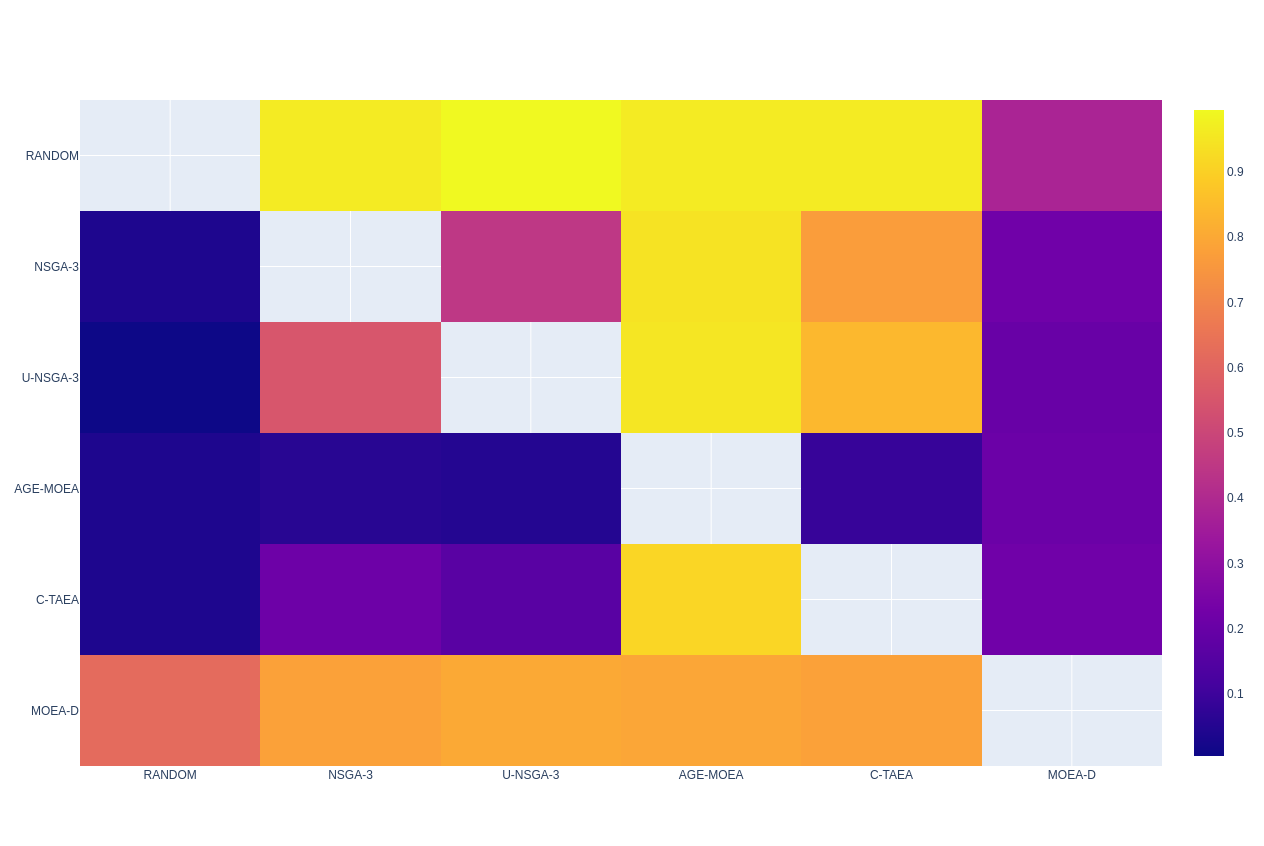
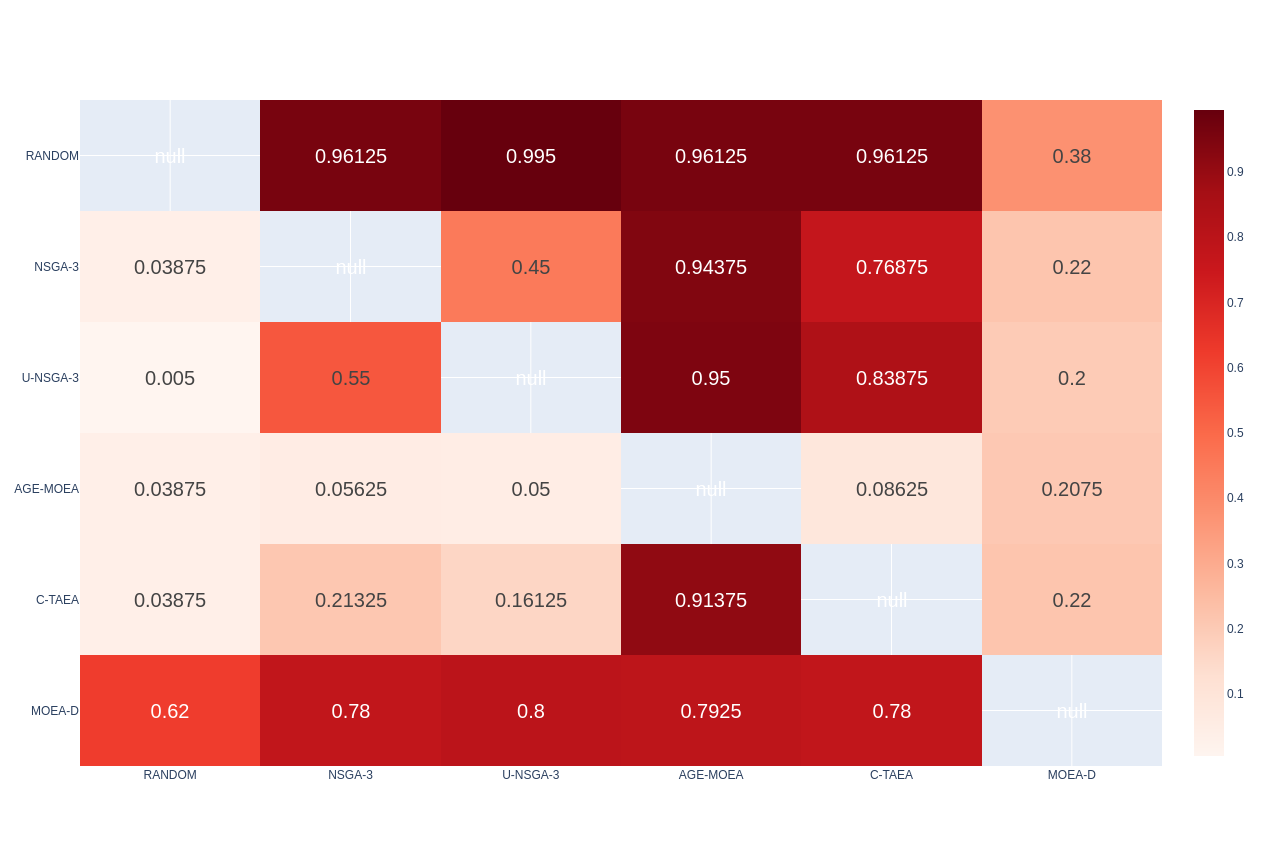
Fixes to the heatmaps

diff --git a/RescueRobotPy/SmallExperiment2/HeatMap.py b/RescueRobotPy/SmallExperiment2/HeatMap.py
@@ -10,7 +10,11 @@ fig1 = go.Figure(data=go.Heatmap(
                    z=pvalue_map,
                    x=['RANDOM', 'NSGA-3', 'U-NSGA-3', 'C-TAEA', 'AGE-MOEA'],
                    y=['MOEA-D', 'AGE-MOEA', 'C-TAEA', 'U-NSGA-3', 'NSGA-3'],
-                   hoverongaps = False))
+                   hoverongaps = False,
+                   colorscale='Reds',
+                   text= pvalue_map,
+                   texttemplate="%{text}",
+                   textfont={"size":20}))
 fig1.show()
 
 effect_size_map = [[0.62, 0.78, 0.8, 0.7925, 0.78, None], 
@@ -24,6 +28,10 @@ fig2 = go.Figure(data=go.Heatmap(
                    z=effect_size_map,
                    x=['RANDOM', 'NSGA-3', 'U-NSGA-3', 'AGE-MOEA', 'C-TAEA', 'MOEA-D'],
                    y=['MOEA-D', 'C-TAEA', 'AGE-MOEA', 'U-NSGA-3', 'NSGA-3', 'RANDOM'],
-                   hoverongaps = False))
+                   hoverongaps = False,
+                   colorscale='Reds',
+                   text=effect_size_map,
+                   texttemplate="%{text}",
+                   textfont={"size":20}))
 
 fig2.show()
